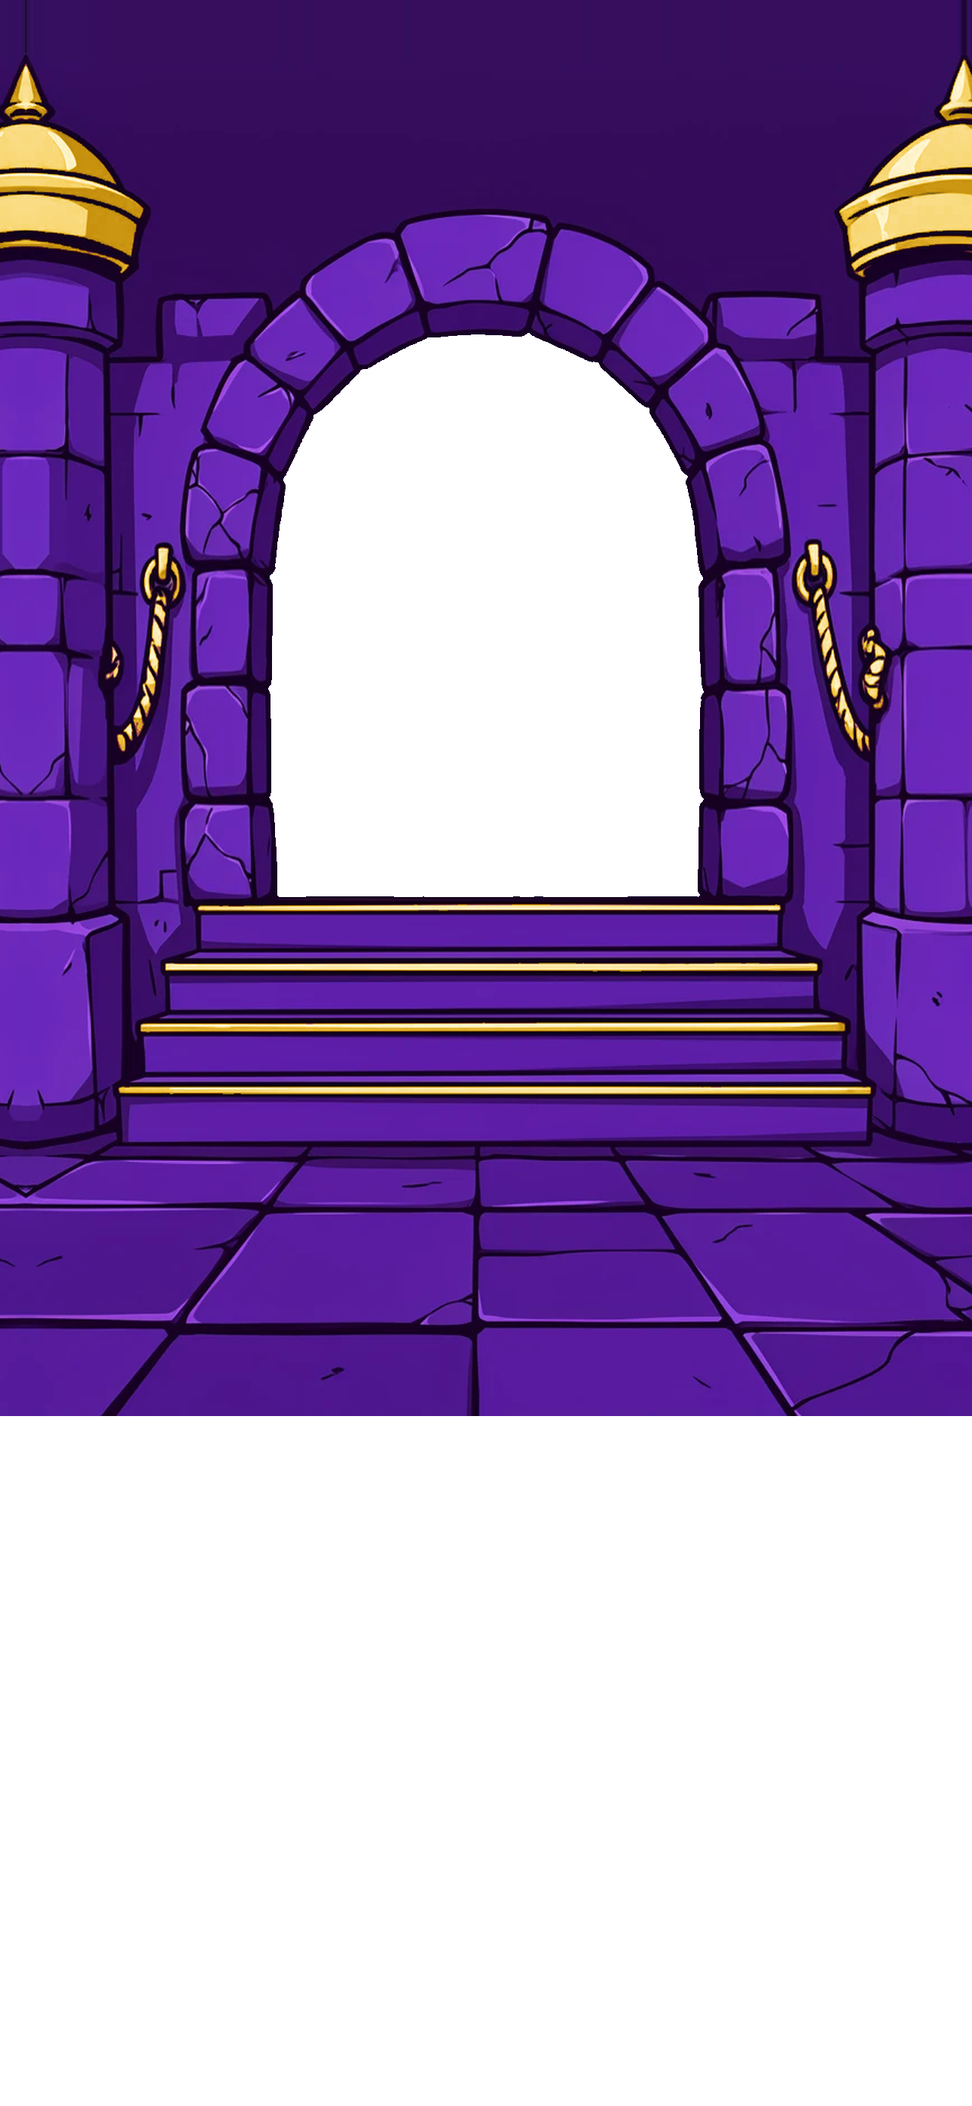
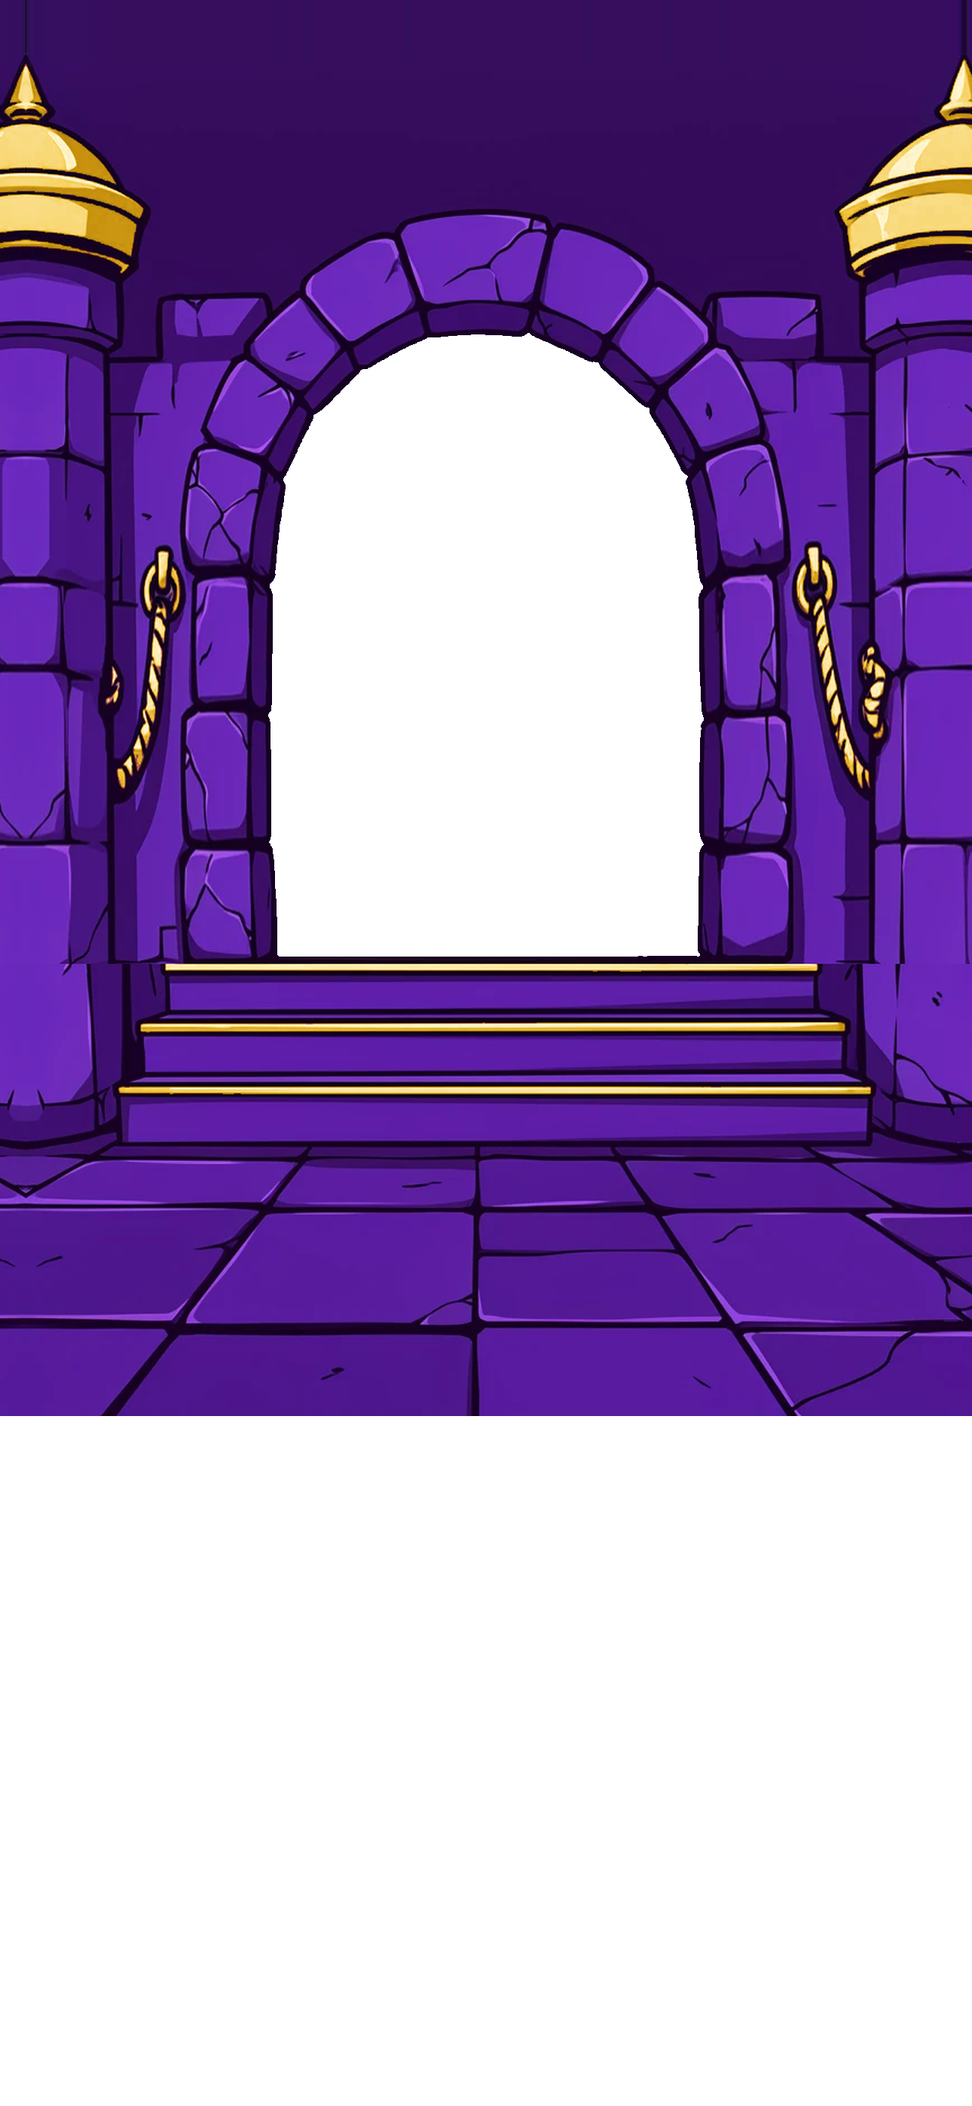
Daily: centre the clues in the door; castle loses its top step
Pete, 2026-09-26: the clues sat bunched on the steps with the top of the door
empty. The clue planks were fixed at one canvas spot, chosen for the smallest
phone.

- The castle has three steps. build_daily_castle.py cuts the top step (one
  53-row repeat) and extends the door into its place, so the door is 26 pt
  taller and the steps, floor and coins don't move.
- The clue position is per phone. resolveDailyClueTop centres the three
  planks in the door, never above y 216 (the arch is too narrow above that
  for the clue box). It only moves them lower where the HUD would cover them,
  and never below DAILY_CLUE_TOP_MAX, where the gate would stop covering the
  crown. The gate moves with the clues: dailyGateClosed, line, open-travel
  and slam-depth helpers all take the clue top.
- The scene only drops when even the lowest clue spot is under the HUD.
- Clue box: 176 pt, which fits every clue in the pool.

Tests cover the clues at the top, preferred and lowest positions (inside
the opening, gate covers the crown, raises clear, slam safe) and the HUD on
six phones. They caught the gate uncovering the crown at the lowest spot,
which set DAILY_CLUE_TOP_MAX. Checked in the browser at 430x932, 375x812
and 375x667.

Claude-Session: https://claude.ai/code/session_01TxB5WRXMWunrcoTTHjrKMD

Changed region(s): [[0.0, 0.2489, 1.0, 0.4667]]

diff --git a/app/ui/dailyCastleScene.ts b/app/ui/dailyCastleScene.ts
@@ -25,19 +25,20 @@ export const DAILY_CASTLE_CANVAS = { width: 430, height: 932 } as const;
 
 /**
  * castle_cartoon.png's transparent arch opening, alpha-measured (the build
- * script prints it): x 356–933 px, y 442–1190 px. The top edge is the crown of
- * the curve; below 1190 px the steps are opaque and hide whatever sits behind.
+ * script prints it): x 356–933 px, y 442–1269 px. The top edge is the crown of
+ * the curve; below 1269 px the steps are opaque and hide whatever sits behind.
+ * The door reaches down into the removed top step's place (Pete, 2026-09-26).
  */
 export const DAILY_CASTLE_OPENING: DailyCastleRect = {
   x: 356 / 3,
   y: 442 / 3,
   width: 578 / 3,
-  height: 749 / 3,
+  height: 828 / 3,
 };
 
 /**
  * Polly's Daily speech bubble sits on the steps, just below the arch opening
- * (whose bottom is the top step's edge, 1190 px), so it never covers a clue on
+ * (whose bottom is the top step's edge, 1269 px), so it never covers a clue on
  * the gate (Pete, 2026-09-26). Canvas points; x/y is the bubble's top-left.
  * Two lines of the longest Daily line fit above the floor coins.
  */
@@ -65,8 +66,7 @@ export const DAILY_GATE_ART = {
 /**
  * Canvas points per gate source px, chosen so the three clue planks fill the
  * straight part of the opening: each plank is 52 pt tall, exactly two lines
- * of 24 pt clue text (DAILY_CLUE_FONT). Lower planks would let the first clue
- * start higher, but a 375 × 667 phone needs it at 240 pt to clear the HUD. The board overhangs the opening on both sides, where the
+ * of 24 pt clue text (DAILY_CLUE_FONT). The board overhangs the opening on both sides, where the
  * arch jambs hide it.
  */
 export const DAILY_GATE_PLANK_PT = 52;
@@ -77,32 +77,53 @@ export const DAILY_GATE_PT_PER_SRC =
 export const DAILY_GATE_CLUE_PLANKS = [2, 3, 4] as const;
 
 /**
- * Where the gate image sits when closed. The clue planks run from canvas
- * y 240 pt (the opening is ~185 pt wide there, measured on castle_cartoon.png)
- * down to 396 pt, just above the step edge at 396.7 pt. 240 is the lowest start
- * that stays below the HUD on a 375 × 667 phone (see dailyCastleScene.test.ts).
+ * Where the clues sit (Pete, 2026-09-26: centred in the door, not bunched on
+ * the steps). `clueTop` is the canvas y of the first clue plank's top line;
+ * the whole gate moves with it. It is chosen per phone by
+ * `resolveDailyClueTop`, between:
+ *   - DAILY_CLUE_TOP_MIN: above this the arch narrows below the clue box
+ *     (castle_cartoon.png: the opening is 177.7 pt wide at y 216 pt);
+ *   - DAILY_CLUE_TOP_MAX: the planks end above the step edge and the gate's
+ *     top edge stays above the crown.
+ * The preferred spot centres the three planks in the door, never above MIN.
  */
-const GATE_CLUE_TOP_Y = 240;
-const GATE_CLUE_CENTER_Y = GATE_CLUE_TOP_Y + DAILY_GATE_PLANK_PT * 1.5;
+const DAILY_CASTLE_OPENING_BOTTOM = DAILY_CASTLE_OPENING.y + DAILY_CASTLE_OPENING.height;
+const DAILY_CLUE_BLOCK = DAILY_GATE_PLANK_PT * DAILY_GATE_CLUE_PLANKS.length;
+export const DAILY_CLUE_TOP_MIN = 216;
+// Lowest of: the planks end just above the step edge; the two planks above the
+// clues still reach past the crown with room for the 6 pt wrong-answer slam.
+export const DAILY_CLUE_TOP_MAX = Math.min(
+  DAILY_CASTLE_OPENING_BOTTOM - DAILY_CLUE_BLOCK - 2,
+  DAILY_CASTLE_OPENING.y + DAILY_GATE_PLANK_PT * DAILY_GATE_CLUE_PLANKS[0] - 7,
+);
+export const DAILY_CLUE_TOP_PREFERRED = Math.max(
+  DAILY_CLUE_TOP_MIN,
+  (DAILY_CASTLE_OPENING.y + DAILY_CASTLE_OPENING_BOTTOM) / 2 - DAILY_CLUE_BLOCK / 2,
+);
+
 const GATE_CLUE_CENTER_LINE_SRC =
   DAILY_GATE_ART.firstLineSrc + DAILY_GATE_ART.plankPitchSrc * 3.5;
 
-export const DAILY_GATE_CLOSED: DailyCastleRect = (() => {
+/** The gate's closed rect for a given clue top. */
+export function dailyGateClosed(clueTop: number = DAILY_CLUE_TOP_PREFERRED): DailyCastleRect {
   const k = DAILY_GATE_PT_PER_SRC;
   const openingCenterX = DAILY_CASTLE_OPENING.x + DAILY_CASTLE_OPENING.width / 2;
   const boardLeft = openingCenterX - (DAILY_GATE_ART.boardWidthSrc * k) / 2;
   return {
     x: boardLeft - DAILY_GATE_ART.boardXSrc * k,
-    y: GATE_CLUE_CENTER_Y - GATE_CLUE_CENTER_LINE_SRC * k,
+    y: clueTop + DAILY_GATE_PLANK_PT * 1.5 - GATE_CLUE_CENTER_LINE_SRC * k,
     width: DAILY_GATE_ART.widthSrc * k,
     height: DAILY_GATE_ART.heightSrc * k,
   };
-})();
+}
 
-/** Canvas y of plank line `i` when the gate is closed. */
-export function dailyGateLineY(i: number): number {
+/** The gate at its preferred (centred) position. */
+export const DAILY_GATE_CLOSED: DailyCastleRect = dailyGateClosed();
+
+/** Canvas y of plank line `i` when the gate is closed at `clueTop`. */
+export function dailyGateLineY(i: number, clueTop: number = DAILY_CLUE_TOP_PREFERRED): number {
   return (
-    DAILY_GATE_CLOSED.y +
+    dailyGateClosed(clueTop).y +
     (DAILY_GATE_ART.firstLineSrc + DAILY_GATE_ART.plankPitchSrc * i) *
       DAILY_GATE_PT_PER_SRC
   );
@@ -112,42 +133,47 @@ export function dailyGateLineY(i: number): number {
  * Raise distance: the board's bottom edge must clear the top of the opening.
  * Four points of margin past that.
  */
-export const DAILY_GATE_OPEN_TRAVEL =
-  dailyGateLineY(DAILY_GATE_ART.plankCount) - DAILY_CASTLE_OPENING.y + 4;
+export function dailyGateOpenTravel(clueTop: number = DAILY_CLUE_TOP_PREFERRED): number {
+  return dailyGateLineY(DAILY_GATE_ART.plankCount, clueTop) - DAILY_CASTLE_OPENING.y + 4;
+}
+export const DAILY_GATE_OPEN_TRAVEL = dailyGateOpenTravel();
 
 /**
  * How far the gate sinks past closed on the wrong-claim slam: a short, hard
  * jolt, never so deep that the board's top edge drops below the crown of the
  * opening.
  */
-export const DAILY_GATE_MAX_SINK = Math.min(
-  6,
-  DAILY_CASTLE_OPENING.y - dailyGateLineY(0) - 1,
-);
+export function dailyGateMaxSink(clueTop: number = DAILY_CLUE_TOP_PREFERRED): number {
+  return Math.min(6, DAILY_CASTLE_OPENING.y - dailyGateLineY(0, clueTop) - 1);
+}
+export const DAILY_GATE_MAX_SINK = dailyGateMaxSink();
 
 /**
- * Clue text box width. Along the clue planks (y 240–396 pt) the opening spans
- * at least ~122.7–307.7 pt (185 pt, centred on the gate); 178 keeps the text
- * inside it with a few points to spare and fits every clue in the pool.
+ * Clue text box width. From DAILY_CLUE_TOP_MIN (216 pt) down the opening is at
+ * least 177.7 pt wide, centred on the gate; 176 fits inside it and fits every
+ * clue in the pool (the longest at 16 pt).
  */
-export const DAILY_GATE_CLUE_WIDTH = 178;
+export const DAILY_GATE_CLUE_WIDTH = 176;
 
 /**
  * Clue rects in canvas points with the gate closed. Each fills its plank
  * between the two plank lines, centred on the board.
  */
-export function resolveDailyGateClueRects(): DailyCastleRect[] {
+export function resolveDailyGateClueRects(
+  clueTop: number = DAILY_CLUE_TOP_PREFERRED,
+): DailyCastleRect[] {
+  const closed = dailyGateClosed(clueTop);
   const boardCenterX =
-    DAILY_GATE_CLOSED.x +
+    closed.x +
     (DAILY_GATE_ART.boardXSrc + DAILY_GATE_ART.boardWidthSrc / 2) *
       DAILY_GATE_PT_PER_SRC;
   return DAILY_GATE_CLUE_PLANKS.map((plank) => {
-    const top = dailyGateLineY(plank);
+    const top = dailyGateLineY(plank, clueTop);
     return {
       x: boardCenterX - DAILY_GATE_CLUE_WIDTH / 2,
       y: top,
       width: DAILY_GATE_CLUE_WIDTH,
-      height: dailyGateLineY(plank + 1) - top,
+      height: dailyGateLineY(plank + 1, clueTop) - top,
     };
   });
 }
@@ -304,8 +330,9 @@ export const DAILY_CASTLE_HUD_GAP = 6;
  * instead. Two limits then move the whole scene together — the layers never
  * separate:
  *   1. the plaque grid must end above the action label (scene rises);
- *   2. the first clue plank must start below the HUD (scene drops), but never
- *      so far that it breaks limit 1.
+ *   2. the clues must be able to start below the HUD (scene drops), but never
+ *      so far that it breaks limit 1. Where the clues sit within the door is
+ *      then `resolveDailyClueTop`'s job.
  */
 export function resolveDailyCastleFrame({
   windowWidth,
@@ -327,10 +354,21 @@ export function resolveDailyCastleFrame({
     windowHeight - bottomInset - DAILY_CASTLE_ACTION_LABEL_CLEARANCE;
   const lowestTop = gridLimit - dailyCastleGridBottom(grid) * scale;
   let top = Math.min(windowHeight - height, lowestTop);
-  const firstClueY = dailyGateLineY(DAILY_GATE_CLUE_PLANKS[0]);
-  const clueTop = hudBottom + DAILY_CASTLE_HUD_GAP - firstClueY * scale;
+  // The clues can sit as low as DAILY_CLUE_TOP_MAX; only if even that is under
+  // the HUD does the scene itself drop.
+  const clueTop = hudBottom + DAILY_CASTLE_HUD_GAP - DAILY_CLUE_TOP_MAX * scale;
   if (top < clueTop) top = Math.min(clueTop, lowestTop);
   return { scale, top, width: windowWidth, height };
+}
+
+/**
+ * The first clue plank's canvas y on this phone: centred in the door
+ * (DAILY_CLUE_TOP_PREFERRED) unless the HUD would cover it, then just below the
+ * HUD, never below DAILY_CLUE_TOP_MAX.
+ */
+export function resolveDailyClueTop(frame: DailyCastleFrame, hudBottom = 0): number {
+  const belowHud = (hudBottom + DAILY_CASTLE_HUD_GAP - frame.top) / frame.scale;
+  return Math.min(DAILY_CLUE_TOP_MAX, Math.max(DAILY_CLUE_TOP_PREFERRED, belowHud));
 }
 
 /** Canvas rect → screen rect for a resolved frame. */

diff --git a/app/ui/dailyCastleScene.test.ts b/app/ui/dailyCastleScene.test.ts
@@ -29,6 +29,12 @@ import {
   resolveDailyCastleFrame,
   resolveDailyCastleSlot,
   resolveDailyGateClueRects,
+  resolveDailyClueTop,
+  DAILY_CLUE_TOP_MIN,
+  DAILY_CLUE_TOP_MAX,
+  DAILY_CLUE_TOP_PREFERRED,
+  dailyGateOpenTravel,
+  dailyGateMaxSink,
 } from './dailyCastleScene';
 
 const opening = DAILY_CASTLE_OPENING;
@@ -49,19 +55,31 @@ assert.ok(dailyGateLineY(8) - DAILY_GATE_OPEN_TRAVEL < opening.y, 'raised gate c
 assert.ok(DAILY_GATE_MAX_SINK > 0);
 assert.ok(dailyGateLineY(0) + DAILY_GATE_MAX_SINK < opening.y, 'sunk gate still covers the crown');
 
-// Clues: one per plank, inside the straight part of the opening, readable height.
-const clues = resolveDailyGateClueRects();
-assert.equal(clues.length, 3);
-for (const [i, clue] of clues.entries()) {
-  const twoFullLines = DAILY_CLUE_FONT.maxSize * DAILY_CLUE_FONT.lineHeightRatio * DAILY_CLUE_FONT.maxLines;
-  assert.ok(clue.height >= twoFullLines, `clue ${i + 1} plank is tall enough for two 24 pt lines`);
-  assert.ok(clue.y >= 240, `clue ${i + 1} sits below the curve of the arch`);
-  assert.ok(clue.y + clue.height < openingBottom, `clue ${i + 1} sits above the steps`);
-  // Measured on castle_cartoon.png: from y 240 pt down, the opening spans at
-  // least x 122.7–307.7 pt.
-  assert.ok(clue.x >= 122.7 && clue.x + clue.width <= 307.7, `clue ${i + 1} fits the opening width`);
-  if (i > 0) assert.equal(clue.y, clues[i - 1].y + clues[i - 1].height, 'clues sit on consecutive planks');
+// Clues: one per plank, readable height, inside the opening at every clue
+// position a phone can choose (MIN = the centred spot's upper limit, MAX = as
+// low as the steps allow). Measured on castle_cartoon.png: from y 216 pt down
+// the opening spans at least x 126.3–304 pt.
+assert.ok(DAILY_CLUE_TOP_MIN <= DAILY_CLUE_TOP_PREFERRED && DAILY_CLUE_TOP_PREFERRED <= DAILY_CLUE_TOP_MAX);
+for (const clueTop of [DAILY_CLUE_TOP_MIN, DAILY_CLUE_TOP_PREFERRED, DAILY_CLUE_TOP_MAX]) {
+  const rects = resolveDailyGateClueRects(clueTop);
+  assert.equal(rects.length, 3);
+  for (const [i, clue] of rects.entries()) {
+    const twoFullLines = DAILY_CLUE_FONT.maxSize * DAILY_CLUE_FONT.lineHeightRatio * DAILY_CLUE_FONT.maxLines;
+    assert.ok(clue.height >= twoFullLines, `clue ${i + 1} plank is tall enough for two 24 pt lines`);
+    assert.ok(clue.y >= DAILY_CLUE_TOP_MIN - 1e-9, `clue ${i + 1} sits below the narrow top of the arch`);
+    assert.ok(clue.y + clue.height < openingBottom, `clue ${i + 1} sits above the steps (top ${clueTop})`);
+    assert.ok(clue.x >= 126.3 && clue.x + clue.width <= 304, `clue ${i + 1} fits the opening width`);
+    if (i > 0) assert.equal(clue.y, rects[i - 1].y + rects[i - 1].height, 'clues sit on consecutive planks');
+  }
+  // The gate still covers the opening, raises clear of it, and its slam never
+  // uncovers the crown, wherever the clues sit.
+  assert.ok(dailyGateLineY(0, clueTop) < opening.y, `gate board reaches above the opening (top ${clueTop})`);
+  assert.ok(dailyGateLineY(8, clueTop) > openingBottom, `gate board reaches below the steps (top ${clueTop})`);
+  assert.ok(dailyGateLineY(8, clueTop) - dailyGateOpenTravel(clueTop) < opening.y, 'raised gate clears the opening');
+  const sink = dailyGateMaxSink(clueTop);
+  assert.ok(sink > 0 && dailyGateLineY(0, clueTop) + sink < opening.y, 'sunk gate still covers the crown');
 }
+const clues = resolveDailyGateClueRects();
 
 // Grid sits on the brick face, centred, inside the canvas.
 assert.ok(DAILY_CASTLE_GRID.top > DAILY_CASTLE_WALL_FACE_TOP, 'grid is below the parapet ledge');
@@ -114,7 +132,9 @@ for (const [w, h, topInset, inset] of phones) {
   assert.equal(f.width, w);
   const gridBottom = f.top + dailyCastleGridBottom(DAILY_CASTLE_GRID) * f.scale;
   assert.ok(gridBottom <= h - inset - DAILY_CASTLE_ACTION_LABEL_CLEARANCE + 0.001, `${w}x${h}: grid clears the action label`);
-  assert.ok(f.top + clues[0].y * f.scale >= hudBottom, `${w}x${h}: first clue is below the HUD`);
+  const clueTop = resolveDailyClueTop(f, hudBottom);
+  assert.ok(clueTop >= DAILY_CLUE_TOP_MIN && clueTop <= DAILY_CLUE_TOP_MAX, `${w}x${h}: clue position within the door`);
+  assert.ok(f.top + clueTop * f.scale >= hudBottom, `${w}x${h}: first clue is below the HUD`);
   // When the scene rises to clear the label, the stage fills the strip under
   // the sill (DAILY_ANSWER_WALL_FOOT); keep that strip inside the home-bar inset.
   assert.ok(h - (f.top + f.height) <= Math.max(inset, 0) + 0.001, `${w}x${h}: any strip under the wall stays inside the bottom inset`);

diff --git a/app/components/DailyCastleStage.tsx b/app/components/DailyCastleStage.tsx
@@ -23,10 +23,11 @@ import {
   DAILY_CASTLE_GRID,
   DAILY_ANSWER_WALL_FOOT,
   DAILY_CASTLE_OPENING,
-  DAILY_GATE_CLOSED,
-  DAILY_GATE_MAX_SINK,
-  DAILY_GATE_OPEN_TRAVEL,
+  dailyGateClosed,
+  dailyGateMaxSink,
+  dailyGateOpenTravel,
   resolveDailyCastleFrame,
+  resolveDailyClueTop,
   resolveDailyCastleSlot,
   resolveDailyGateClueRects,
   toDailyCastleScreen,
@@ -360,18 +361,23 @@ export default function DailyCastleStage({
   opening.x += sceneLeft;
   opening.y -= stageOffset.y;
 
+  // Where the clues sit on this phone: centred in the door unless the HUD
+  // would cover them. The whole gate moves with them.
+  const clueTop = resolveDailyClueTop(frame, hudBottom);
+  const gateClosed = dailyGateClosed(clueTop);
+
   // Gate and clue rects relative to the opening / gate image that hold them.
   const gateFrame = {
-    x: (DAILY_GATE_CLOSED.x - DAILY_CASTLE_OPENING.x + tuning.gate.x) * s,
-    y: (DAILY_GATE_CLOSED.y - DAILY_CASTLE_OPENING.y + tuning.gate.y) * s,
-    width: DAILY_GATE_CLOSED.width * s,
-    height: DAILY_GATE_CLOSED.height * s,
+    x: (gateClosed.x - DAILY_CASTLE_OPENING.x + tuning.gate.x) * s,
+    y: (gateClosed.y - DAILY_CASTLE_OPENING.y + tuning.gate.y) * s,
+    width: gateClosed.width * s,
+    height: gateClosed.height * s,
   };
-  const clueRects = resolveDailyGateClueRects().map((rect) => {
+  const clueRects = resolveDailyGateClueRects(clueTop).map((rect) => {
     const width = (tuning.clues.width || rect.width) * s;
     return {
-      x: (rect.x - DAILY_GATE_CLOSED.x + tuning.clues.x) * s + (rect.width * s - width) / 2,
-      y: (rect.y - DAILY_GATE_CLOSED.y + tuning.clues.y) * s,
+      x: (rect.x - gateClosed.x + tuning.clues.x) * s + (rect.width * s - width) / 2,
+      y: (rect.y - gateClosed.y + tuning.clues.y) * s,
       width,
       height: rect.height * s,
     };
@@ -467,8 +473,8 @@ export default function DailyCastleStage({
             revealedCount={revealedCount}
             frame={gateFrame}
             clueRects={clueRects}
-            openTravel={DAILY_GATE_OPEN_TRAVEL * s}
-            maxSink={DAILY_GATE_MAX_SINK * s}
+            openTravel={dailyGateOpenTravel(clueTop) * s}
+            maxSink={dailyGateMaxSink(clueTop) * s}
             scale={s}
           />
         </View>

diff --git a/tools/art/build_daily_castle.py b/tools/art/build_daily_castle.py
@@ -9,8 +9,11 @@ it matches Polly. This script:
      #FFF7D6;
   2. centres the arch (the source draws it CENTRE_SHIFT px left of centre;
      the left edge is filled by reflection);
-  3. stretches only the arch's straight sides (rows STRETCH_Y0..STRETCH_Y1)
-     by STRETCH_ADD px, so the three clue planks keep their full size;
+  3. removes the top step (rows STEP_CUT: one 53-row repeat of gold edge,
+     face and the next step's top) and stretches only the arch's straight
+     sides (rows STRETCH_Y0..STRETCH_Y1) by STRETCH_ADD px, so the door
+     reaches down into the removed step's place and the clues have room to
+     sit centred (Pete, 2026-09-26);
   4. scales to the 1290 px canvas width and places it on the shared
      1290 x 2796 castle canvas at OFFSET_Y, sky colour filled above, so the
      courtyard floor runs under the answer wall;
@@ -34,7 +37,8 @@ OUT = ROOT / "assets/images/dailycastle/castle_cartoon.png"
 W, H = 1290, 2796
 CENTRE_SHIFT = 23          # source px: arch centre x 409 vs image centre 432
 STRETCH_Y0, STRETCH_Y1 = 420, 685   # source rows: the arch's straight sides
-STRETCH_ADD = 60           # source px added to that band
+STEP_CUT = (697, 750)      # source rows of the top step, removed (4 steps -> 3)
+STRETCH_ADD = 60 + (STEP_CUT[1] - STEP_CUT[0])   # the cut step's height goes to the door
 OFFSET_Y = 70              # canvas px: clues clear the HUD on 375x667, step edge above the coins
 OPENING_SEED = (432, 520)  # source px inside the opening (after centring)
 OPENING_TOL = 20           # colour tolerance for the opening flood fill
@@ -70,6 +74,10 @@ def centre(a):
     return np.concatenate([pad, a[:, :-CENTRE_SHIFT]], axis=1)
 
 
+def cut_step(a):
+    return np.concatenate([a[:STEP_CUT[0]], a[STEP_CUT[1]:]], axis=0)
+
+
 def stretch(a):
     band = Image.fromarray(a[STRETCH_Y0:STRETCH_Y1])
     band = np.array(band.resize((a.shape[1], STRETCH_Y1 - STRETCH_Y0 + STRETCH_ADD), Image.LANCZOS))
@@ -92,7 +100,7 @@ def flood(a, seed, tol):
 def main():
     a = np.array(Image.open(SRC).convert("RGB"))
     a, n_gold = regold(a)
-    a = stretch(centre(a))
+    a = stretch(cut_step(centre(a)))
     k = W / a.shape[1]
     big = np.array(Image.fromarray(a).resize((W, round(a.shape[0] * k)), Image.LANCZOS))
     seed = (round(OPENING_SEED[0] * k), round((OPENING_SEED[1] + STRETCH_ADD / 2) * k))

diff --git a/CLAUDE.md b/CLAUDE.md
@@ -133,8 +133,15 @@ sequence are in `docs/DAILY_CHALLENGE_SPEC.md`. Rebuilt on branch `daily-castle-
   centred, straight sides stretched for the clue planks, opening cut out, measurements
   printed. The old painted `ARCHNEW.png` is no longer drawn; the tunnel and answer-wall scripts
   still read it until they go cartoon too.
-- Clue geometry is set by the smallest phone: the first clue must start at canvas y 240 to
-  clear the HUD on 375 × 667, so the planks are 52 pt (two lines of 24 pt, exactly).
+- The clues sit centred in the door (Pete, 2026-09-26), so the gate position is per phone:
+  `resolveDailyClueTop(frame, hudBottom)` picks the first plank's canvas y between
+  `DAILY_CLUE_TOP_MIN` (216: above it the arch is too narrow for the 176 pt clue box) and
+  `DAILY_CLUE_TOP_MAX` (the planks end above the steps and the gate still covers the crown),
+  centred unless the HUD would cover it. The gate helpers (`dailyGateClosed`,
+  `dailyGateLineY`, `dailyGateOpenTravel`, `dailyGateMaxSink`, `resolveDailyGateClueRects`)
+  take that clue top. Planks are 52 pt: two lines of 24 pt, exactly. The scene only drops
+  when even `DAILY_CLUE_TOP_MAX` is under the HUD. The castle has three steps: the build
+  script removes the top one and extends the door into its place.
 - Every measured coordinate lives in `app/ui/dailyCastleScene.ts` beside its pixel
   measurement (opening, gate planks, clue rects, plaque grid, throw, coins, Polly's bubble),
   covered by `dailyCastleScene.test.ts`. Re-measure if an export changes.
